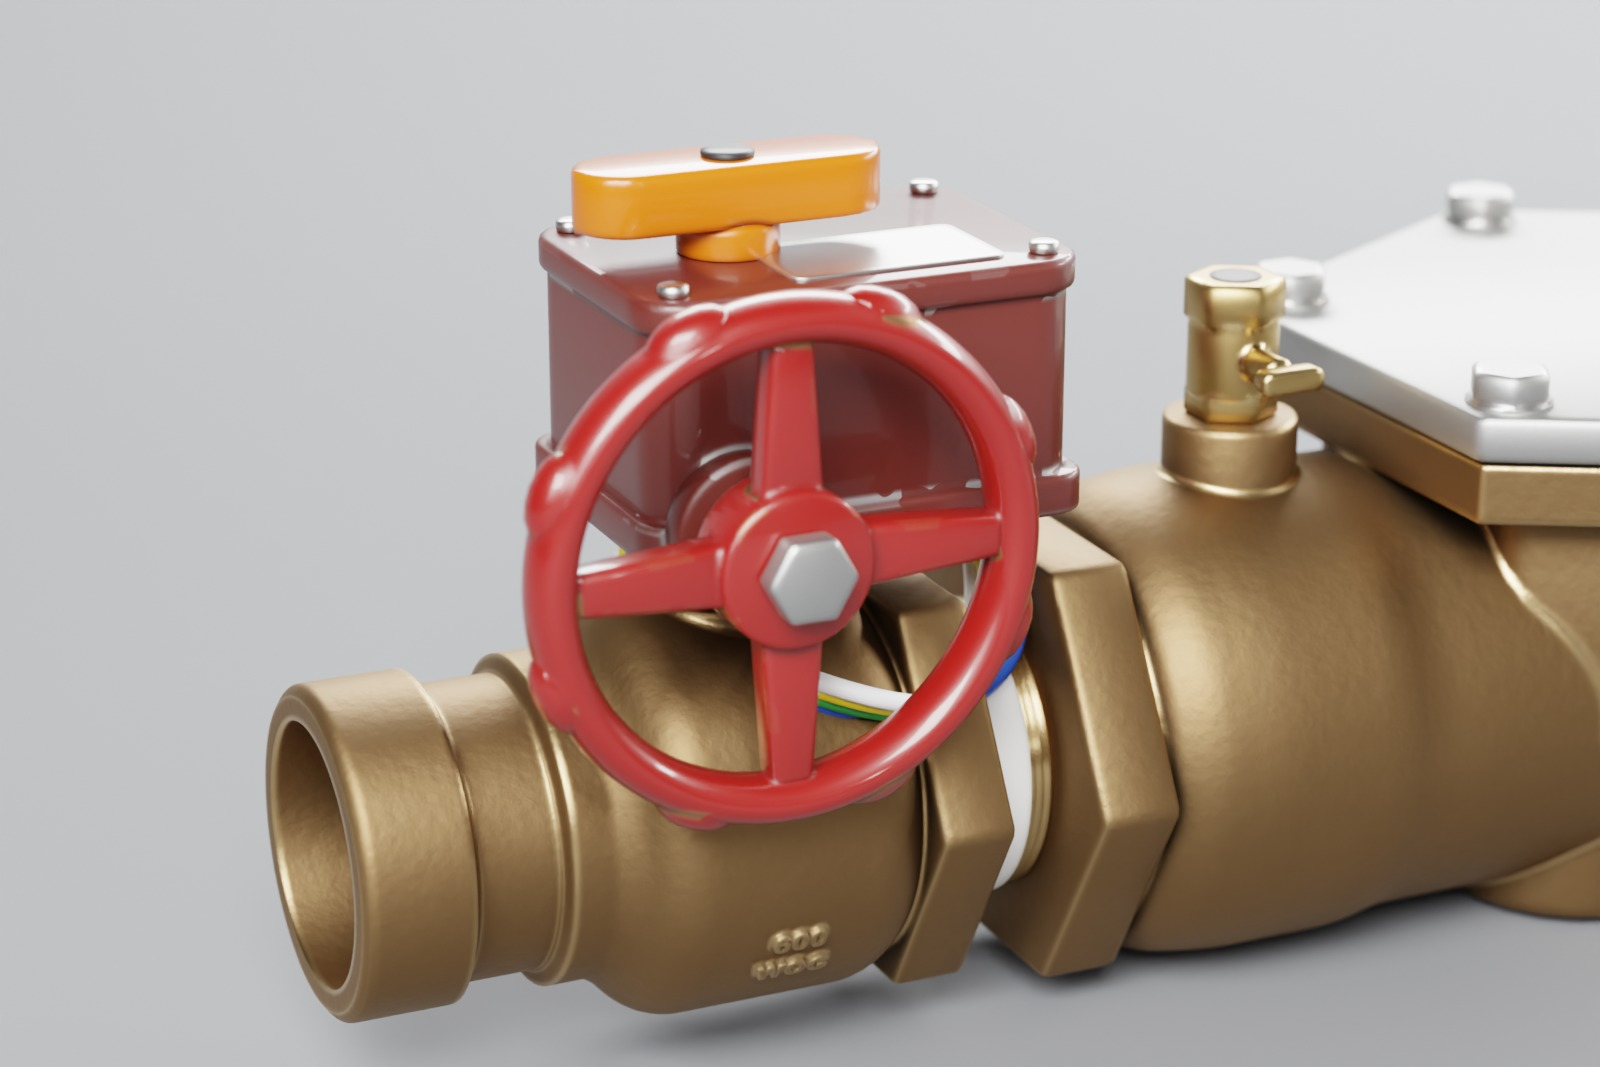
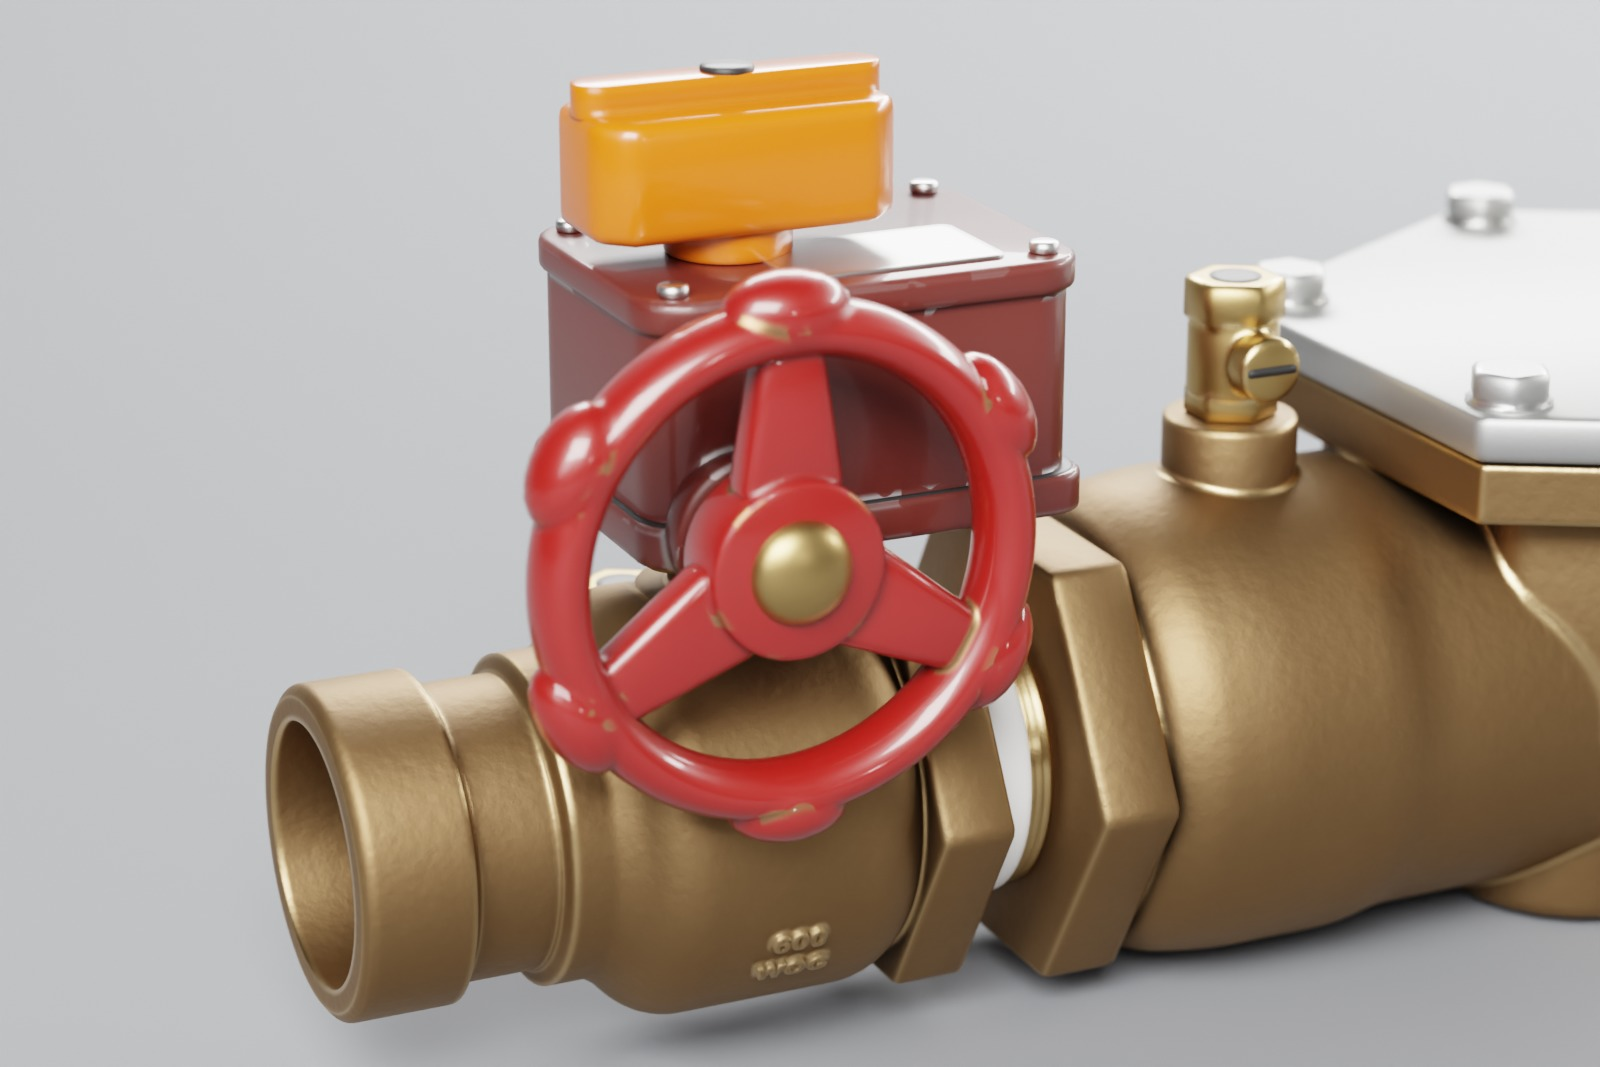
Watts renders from v8 model (photo-matched indicators, 3-spoke handwheels, slotted test cocks, no wires)

Changed region(s): [[0.3125, 0.0309, 0.6562, 0.8041], [0.75, 0.3093, 0.8438, 0.3711]]

diff --git a/watts.html b/watts.html
@@ -781,9 +781,9 @@ $("resetBtn").onclick=()=>{ applyTabState(); };
 
 /* ---------------- renders + Revit overlay ---------------- */
 const RENDERS=[["hero","Hero, three-quarter"],["front","Front elevation"],["top","Top three-quarter"],["detail","Gear operator detail"],["service","Service view, checks removed"]];
-$("gallery").innerHTML=RENDERS.map(([k,c],i)=>`<figure data-i="${i}"><img src="assets/watts/render_${k}.jpg?v=2" alt="${c}" loading="lazy"><figcaption>${c}</figcaption></figure>`).join("");
-$("thumbs").innerHTML=RENDERS.map(([k,c],i)=>`<img data-i="${i}" src="assets/watts/render_${k}.jpg?v=2" alt="${c}">`).join("");
-function showRender(i){ $("renderImg").src=`assets/watts/render_${RENDERS[i][0]}.jpg?v=2`; $("thumbs").querySelectorAll("img").forEach(t=>t.classList.toggle("on",+t.dataset.i===i)); }
+$("gallery").innerHTML=RENDERS.map(([k,c],i)=>`<figure data-i="${i}"><img src="assets/watts/render_${k}.jpg?v=3" alt="${c}" loading="lazy"><figcaption>${c}</figcaption></figure>`).join("");
+$("thumbs").innerHTML=RENDERS.map(([k,c],i)=>`<img data-i="${i}" src="assets/watts/render_${k}.jpg?v=3" alt="${c}">`).join("");
+function showRender(i){ $("renderImg").src=`assets/watts/render_${RENDERS[i][0]}.jpg?v=3`; $("thumbs").querySelectorAll("img").forEach(t=>t.classList.toggle("on",+t.dataset.i===i)); }
 $("thumbs").addEventListener("click",e=>{ const t=e.target.closest("img"); if(t) showRender(+t.dataset.i); });
 $("gallery").addEventListener("click",e=>{ const f=e.target.closest("figure"); if(!f) return; setTab("product"); setMode("renders"); showRender(+f.dataset.i); window.scrollTo({top:0,behavior:"smooth"}); });
 function setMode(m){
